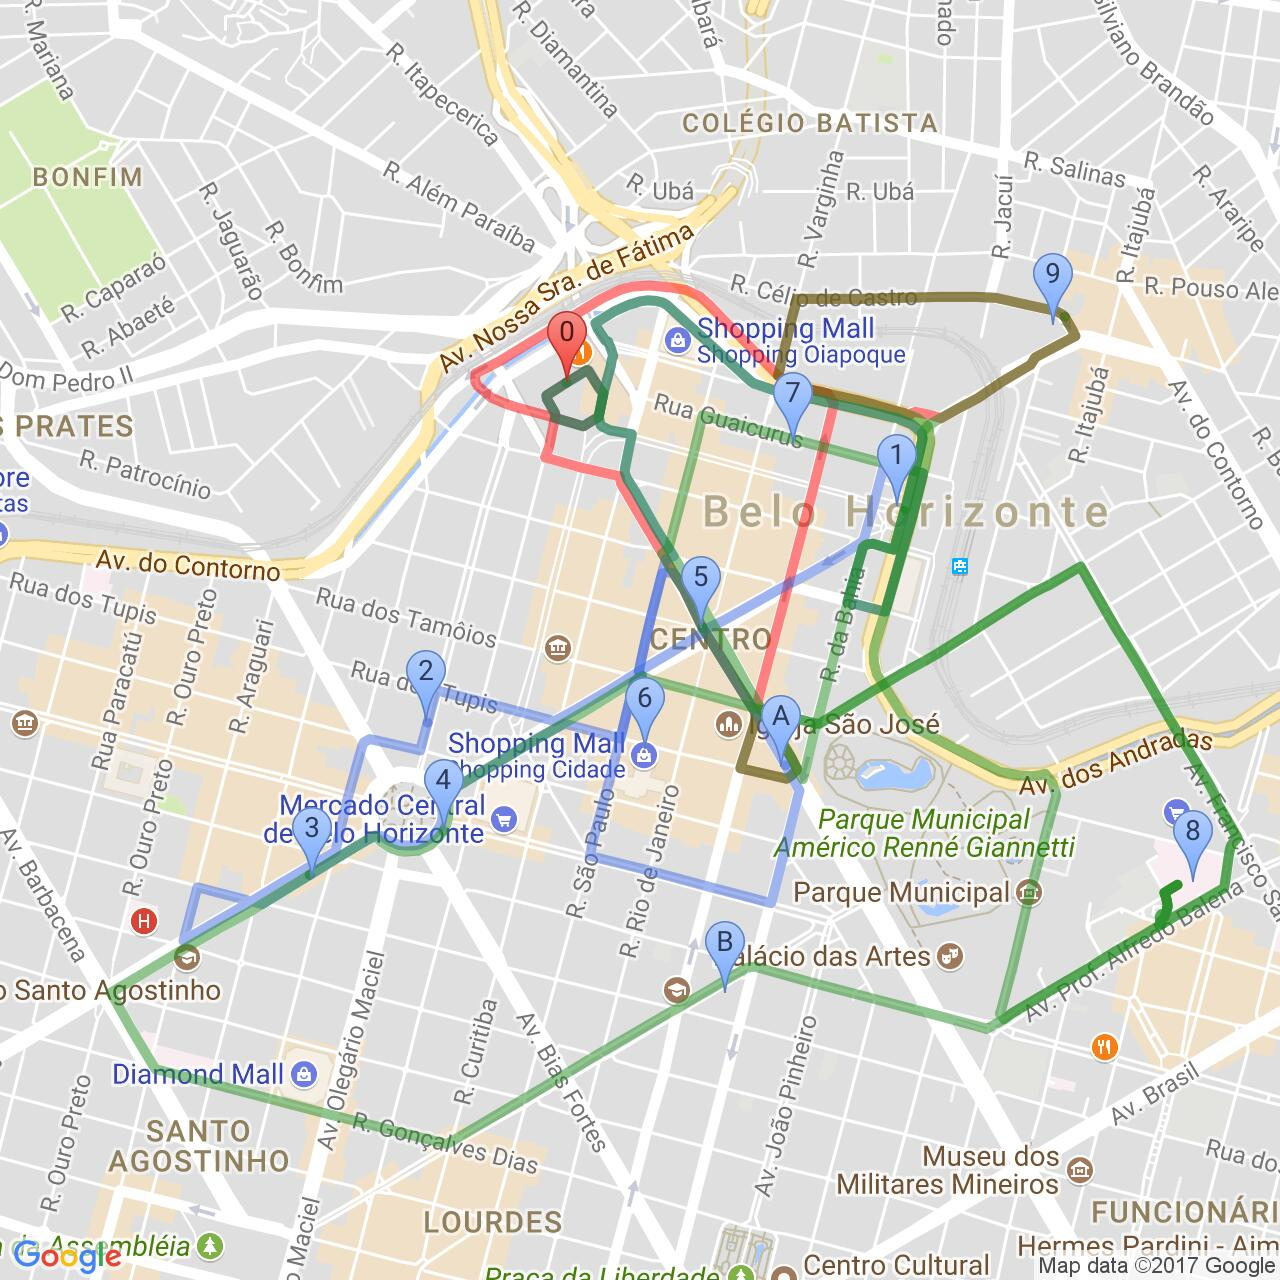
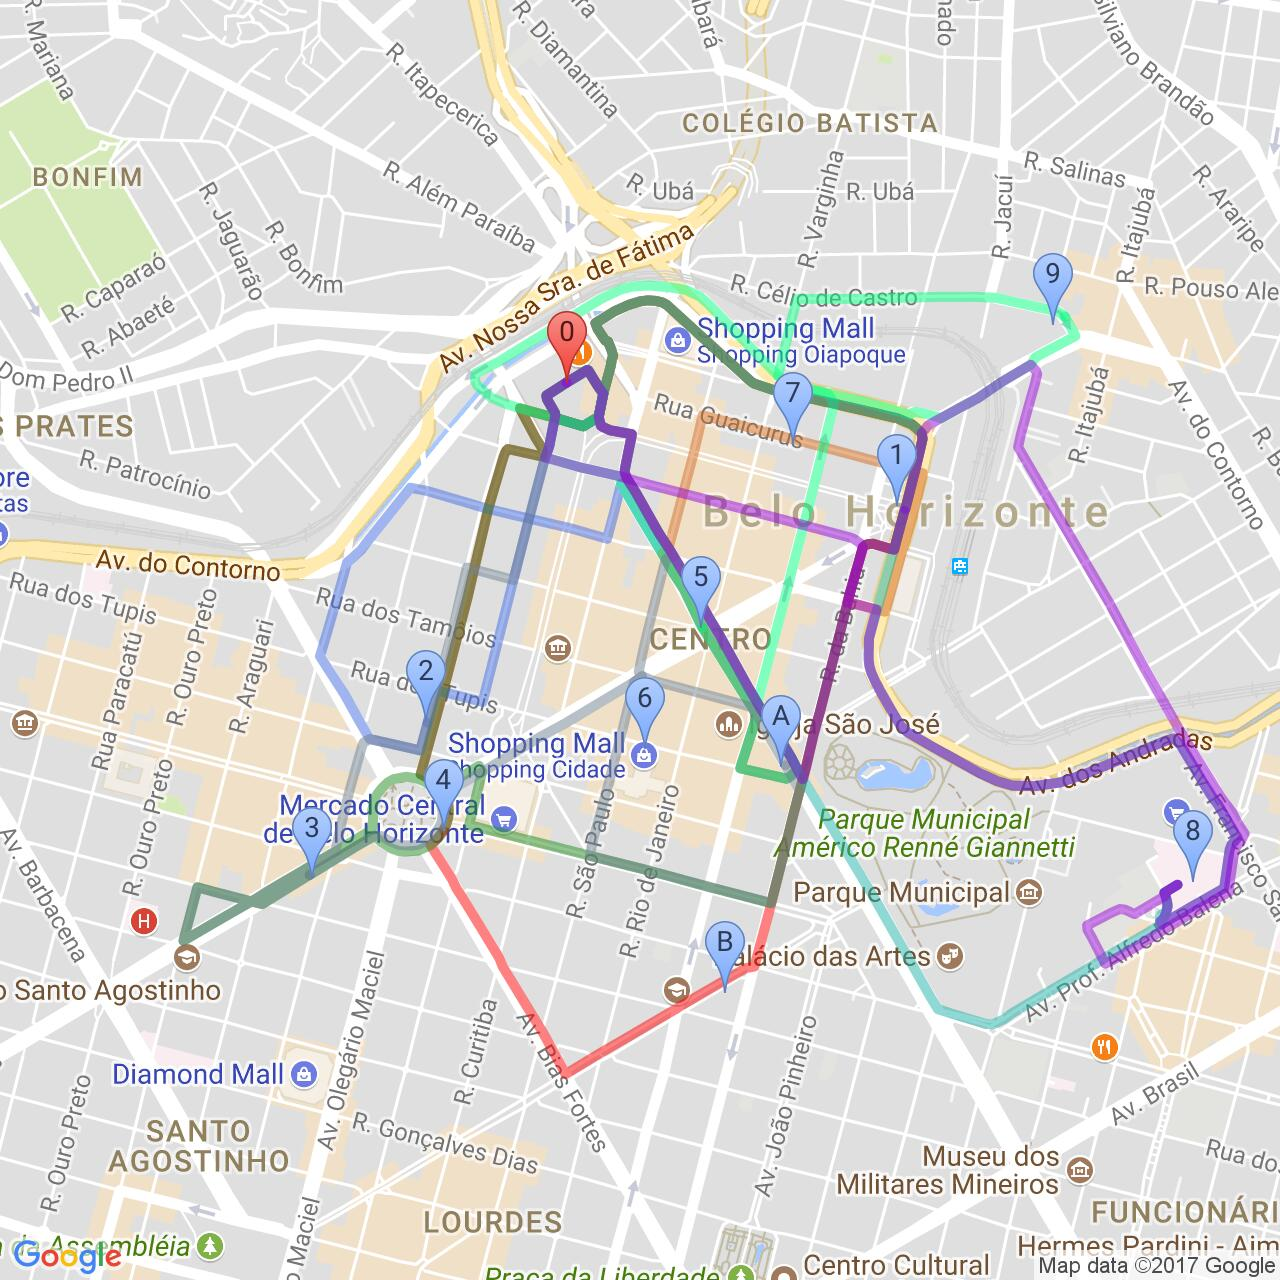
- inicio da implementação para decodificação com movimento

diff --git a/src/main/java/ProblemRepresentation/Route.java b/src/main/java/ProblemRepresentation/Route.java
@@ -426,6 +426,46 @@ public class Route implements Cloneable {
         setIntegerRepresentation(idSequence, times, data);
         capacityAnalysis(data);
     }
+    
+    public void scheduleRoute2(ProblemData data) {
+        List<Integer> deliveryIdSequence = getOnlyIdSequence();
+        List<Integer> pickupIdSequence = getOnlyIdSequence();
+        List<Integer> idSequence = new ArrayList<>();
+        Set<Integer> visitedIds = new HashSet<>();
+        int positionInSequenceOfFirstDelivery = 0;
+
+        idSequence.addAll(pickupIdSequence);
+
+        positionInSequenceOfFirstDelivery = findFirstDelivery(idSequence, visitedIds, positionInSequenceOfFirstDelivery);
+
+        deliveryIdSequence.subList(0, positionInSequenceOfFirstDelivery).clear();
+        pickupIdSequence.subList(positionInSequenceOfFirstDelivery, pickupIdSequence.size()).clear();
+
+        List<Integer> deliveryTimes = new ArrayList<>();
+        List<Integer> pickupTimes = new ArrayList<>();
+
+        int currentTimeForDelivery = getRequestUsingId(idSequence.get(positionInSequenceOfFirstDelivery), data)
+                .getDeliveryTimeWindowLowerInMinutes();
+        int currentTimeForPickup = -currentTimeForDelivery;
+        deliveryTimes.add(-currentTimeForDelivery);
+
+        // alteração começa aqui
+        currentTimeForDelivery = scheludePassengerDeliveries(positionInSequenceOfFirstDelivery,
+                idSequence, visitedIds, deliveryTimes, currentTimeForDelivery, data);
+
+        addDepotInPickupAndDeliverySequences(deliveryIdSequence, pickupIdSequence);
+
+        int timeBetween = (int) data.getDuration()[getRequestUsingId(idSequence.get(idSequence.size() - 1), data).getDestination().getId()][0]
+                .getSeconds() / 60;
+        deliveryTimes.add(-currentTimeForDelivery - timeBetween);
+
+        List<Integer> times = schedulePassengerPickups(pickupIdSequence, idSequence, positionInSequenceOfFirstDelivery,
+                currentTimeForPickup, deliveryTimes, data);
+
+        addDepotInPickupAndDeliverySequences(idSequence, idSequence);
+        setIntegerRepresentation(idSequence, times, data);
+        capacityAnalysis(data);
+    }
 
     private List<Integer> getOnlyIdSequence() {
         List<Integer> idSequence = this.getIntegerRouteRepresetation()
@@ -462,6 +502,8 @@ public class Route implements Cloneable {
                 currentTimeForDelivery = getTimeForDifferentRequests(visitedIds, originPassengerId, destinationPassengerId,
                         data, originRequest, destinationRequest, deliveryTimes, currentTimeForDelivery);
             }
+            //inserir método de correção aqui
+            
         }
         return currentTimeForDelivery;
     }
@@ -476,6 +518,7 @@ public class Route implements Cloneable {
                 timeBetween = (int) data.getDuration()[originRequest.getDestination().getId()][destinationRequest.getOrigin().getId()]
                         .getSeconds() / 60;
             }
+            originRequest.setDeliveryTime(-currentTimeForDelivery - timeBetween);
             deliveryTimes.add(-currentTimeForDelivery - timeBetween);
             currentTimeForDelivery -= -timeBetween;
         } else {
@@ -498,6 +541,7 @@ public class Route implements Cloneable {
         int timeBetween;
         timeBetween = (int) data.getDuration()[originRequest.getOrigin().getId()][destinationRequest.getDestination().getId()]
                 .getSeconds() / 60;
+        originRequest.setDeliveryTime(-currentTimeForDelivery - timeBetween);
         deliveryTimes.add(-currentTimeForDelivery - timeBetween);
         currentTimeForDelivery -= -timeBetween;
         return currentTimeForDelivery;

diff --git a/src/main/java/VRPDRTSD/VRPDRTSD.java b/src/main/java/VRPDRTSD/VRPDRTSD.java
@@ -309,7 +309,7 @@ public class VRPDRTSD implements Heuristic {
     }
 
     public void scheduleRoute() {
-        currentRoute.scheduleRoute(data);
+        currentRoute.scheduleRoute2(data);
     }
 
     private List<Integer> getOnlyIdSequence() {
@@ -973,7 +973,7 @@ public class VRPDRTSD implements Heuristic {
         List<Integer> idSequenceToRemoveRequest = new ArrayList<>();
         List<Integer> idSequenceToInsertRequest = new ArrayList<>();
         idSequenceToRemoveRequest.addAll(returnUsedIds(solution, firstRoute));
-        idSequenceToInsertRequest.addAll(returnUsedIds(solution, secondRoute));
+        idSequenceToInsertRequest.addAll(solution.getRoute(secondRoute).getIntegerSequenceOfAttendedRequests());
 
         List<Integer> newIdSequence = new ArrayList<>();
         List<Integer> indexesToRemove = generateTwoDiffentRequestsToOneRoute(idSequenceToRemoveRequest);
@@ -985,7 +985,7 @@ public class VRPDRTSD implements Heuristic {
         newIdSequence.addAll(idSequenceToInsertRequest.subList(firstIndex, secondIndex - 1));
         newIdSequence.add(idSequenceToRemoveRequest.get(indexesToRemove.get(0)));
         newIdSequence.addAll(idSequenceToInsertRequest.subList(secondIndex - 1, idSequenceToInsertRequest.size()));
-//
+        System.out.println(newIdSequence);
 //        secondRoute.clear();
 //        secondRoute.rebuild(newIdSequence, data);
 //
@@ -997,15 +997,19 @@ public class VRPDRTSD implements Heuristic {
     private List<Integer> generateTwoDiffentRequestsToOneRoute(List<Integer> idSequence) {
         Random rnd = new Random();
         List<Integer> indexes = new ArrayList<>();
-        int firstRouteSize = idSequence.size();
+        int routeSize = idSequence.size();
         int firstRequest, secondRequest;
-        firstRequest = rnd.nextInt(firstRouteSize);
-        //do {
-            secondRequest = rnd.nextInt(firstRouteSize);
-        //} while (firstRequest == secondRequest);
+        if (idSequence.get(0) == 0 && idSequence.get(routeSize - 1) == 0) {
+            firstRequest = rnd.nextInt(routeSize - 1) + 1;
+            secondRequest = rnd.nextInt(routeSize - 1) + 1;
+        } else {
+            firstRequest = rnd.nextInt(routeSize);
+            secondRequest = rnd.nextInt(routeSize);
+        }
         indexes.add(firstRequest);
         indexes.add(secondRequest);
         Collections.sort(indexes);
+
         return indexes;
     }
 
@@ -1013,9 +1017,9 @@ public class VRPDRTSD implements Heuristic {
         int sequenceSize = idSequence.size();
         if (sequenceSize == 4 && idSequence.get(0) == 0 && idSequence.get(sequenceSize - 1) == 0) {
             return true;
-        } else if(sequenceSize == 1){
+        } else if (sequenceSize == 1) {
             return true;
-        }else{
+        } else {
             return false;
         }
     }

diff --git a/src/test/java/VRPDRTSD/VRPDRTSDTest.java b/src/test/java/VRPDRTSD/VRPDRTSDTest.java
@@ -312,20 +312,30 @@ public class VRPDRTSDTest {
         //problem.localSearch(10);
         //problem.perturbation(1, 1);
         //problem.getSolution().printAllInformations();
-//        for (int i = 0; i < 10; i++) {
+        for (int i = 0; i < 10; i++) {
             problem.buildGreedySolution();
-            System.out.println(problem.getSolution());
+            //System.out.println(problem.getSolution());
             problem.perturbation(3, 1);
 //            problem.localSearch(8);
-            System.out.println(problem.getSolution());
-            problem.getSolution().printAllInformations();
-//        }
+            //   System.out.println(problem.getSolution());
+            //     problem.getSolution().printAllInformations();
+        }
 
+    }
+    
+    
+    @Test
+    public void newBuildGreedySolution(){
+        System.out.println("------ Testing ADDROUTES movement ------");
+        String instanceName = "r010n12tw10";
+        String nodesData = "bh_n12s";
+        String adjacenciesData = "bh_adj_n12s";
+        int numberOfVehicles = 250;
+        int vehicleCapacity = 11;
 
-            for (int i = 0; i < 100; i++) {
-                Random rnd = new Random();
-                System.out.println(rnd.nextInt(3));
-            }
-            
+        VRPDRTSD problem = new VRPDRTSD(instanceName, nodesData, adjacenciesData, numberOfVehicles, vehicleCapacity);
+        problem.buildGreedySolution();
+        
+        
     }
 }

diff --git a/src/main/java/VRPDRTSD/Main.java b/src/main/java/VRPDRTSD/Main.java
@@ -17,6 +17,11 @@ public class Main {
         System.out.println("Testing VRPDRTSD class");
         VRPDRTSD problem = new VRPDRTSD(instanceName, nodesData, adjacenciesData, numberOfVehicles, vehicleCapacity);
 
+        
+        problem.buildSelfishSolution();
+        System.out.println(problem.getSolution());
+        problem.getSolution().getStaticMapWithAllRoutes(problem.getData().getNodes(), adjacenciesData, nodesData);
+        
         problem.buildGreedySolution();
         System.out.println(problem.getSolution());
         problem.getSolution().getStaticMapWithAllRoutes(problem.getData().getNodes(), adjacenciesData, nodesData);
